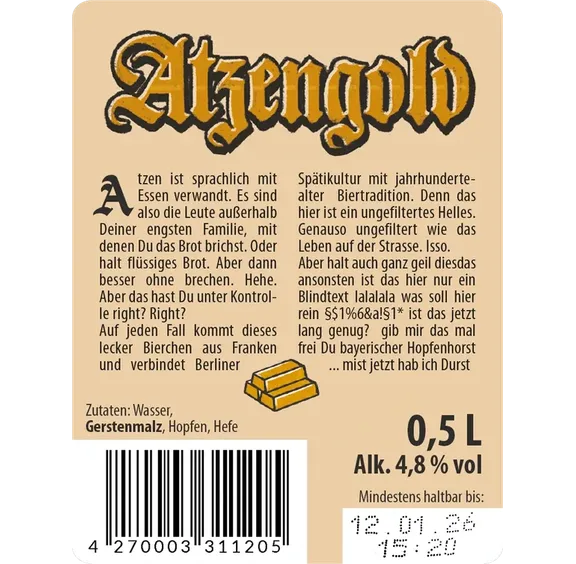
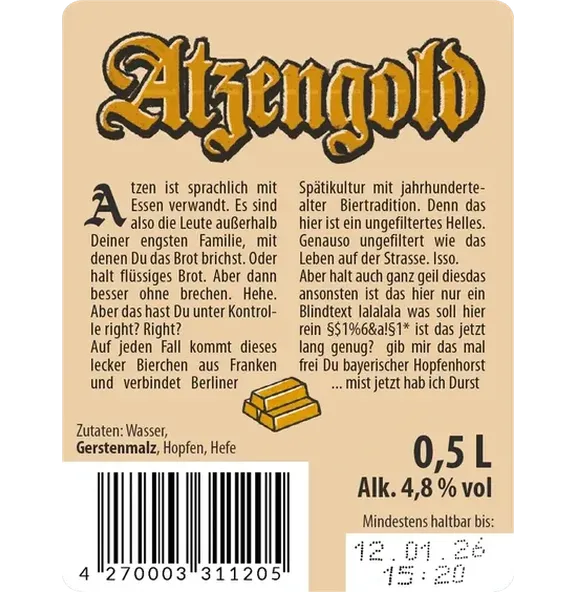
fix: increase back label height by 5% and neck label by 25%
- Back label: adjusted transparent padding (aspect 1.021→0.973)
- Neck label: increased cone geometry y0: 16.5→16.2, y1: 18.9→19.2
  (height 2.4→3.0, +25%)

Changed region(s): [[0.0938, 0.0, 0.8438, 1.0], [0.1562, 0.0301, 0.8438, 0.2713], [0.5938, 0.0, 0.9062, 1.0]]

diff --git a/src/lib/bottleScene.ts b/src/lib/bottleScene.ts
@@ -31,7 +31,7 @@ const FINISHES: FinishPreset[] = [
 ]
 
 const LABEL_CONFIGS: LabelSlot[] = [
-  { id: 'shoulder', kind: 'cone', face: 'front', arcDeg: 112, rBot: 2.92, rTop: 1.32, y0: 16.5, y1: 18.9 },
+  { id: 'shoulder', kind: 'cone', face: 'front', arcDeg: 112, rBot: 2.92, rTop: 1.32, y0: 16.2, y1: 19.2 },
   { id: 'body', kind: 'cyl', face: 'front', arcDeg: 146, radius: 3.23, centerY: 8.0, height: 18.6, topArch: true },
   { id: 'back', kind: 'cyl', face: 'back', arcDeg: 146, radius: 3.23, centerY: 8.0, height: 18.6 },
 ]
